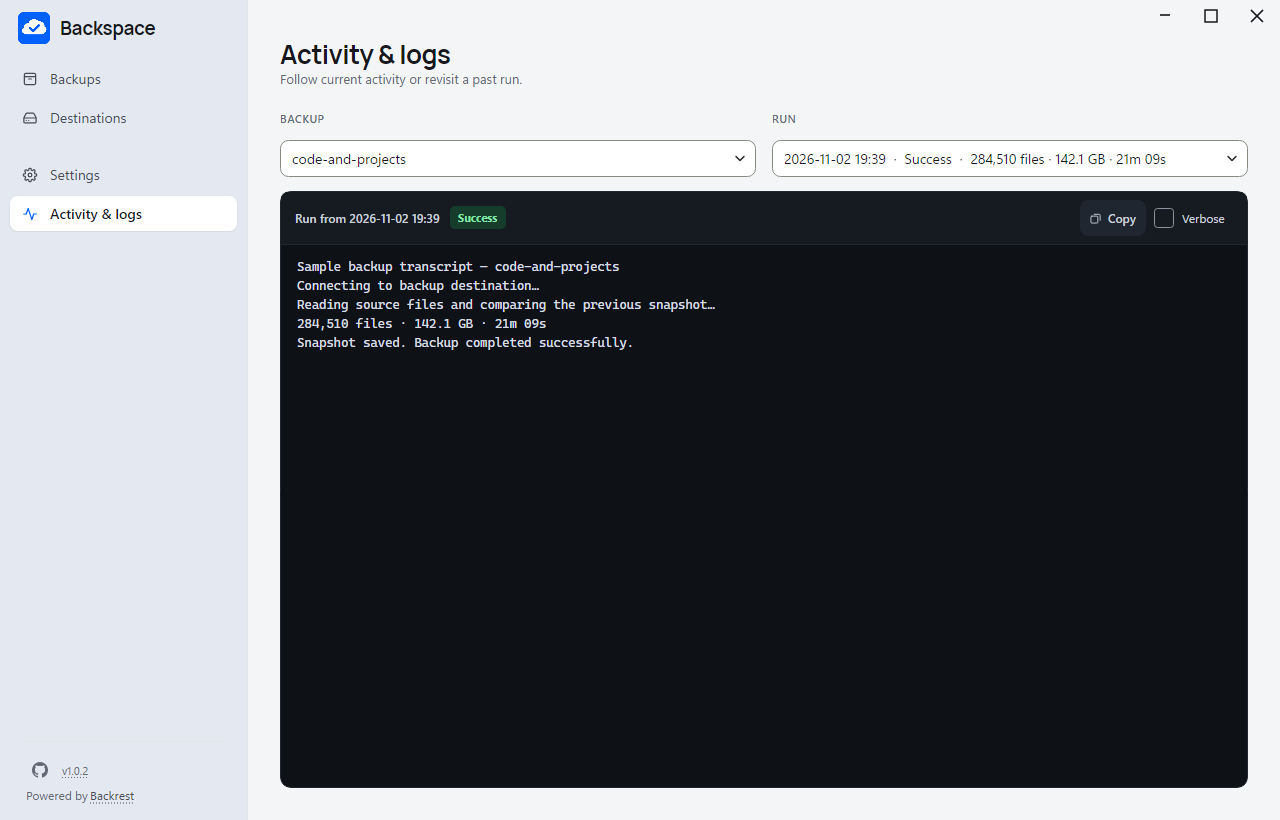
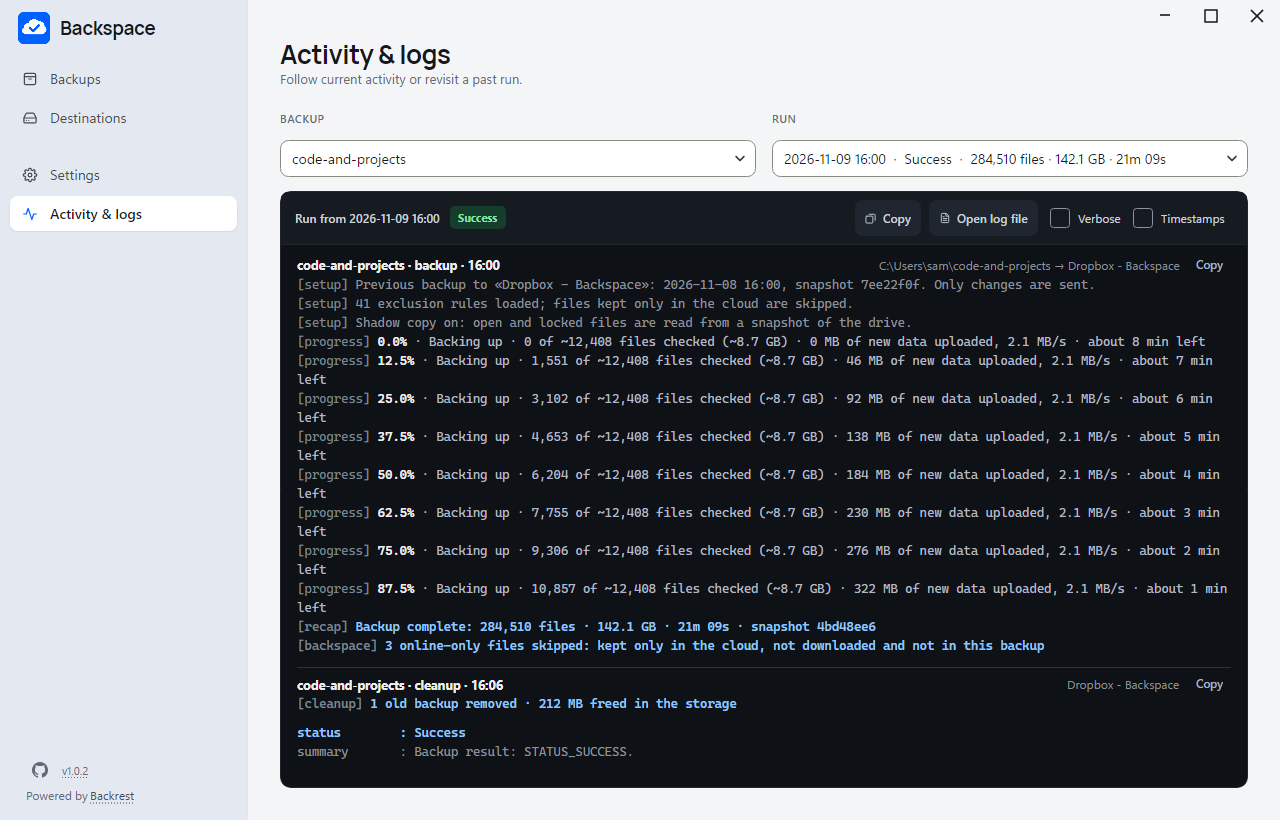
Log console, round 3: checked against real logs, drag past the edge, website shot (U176)
Ran the classifier over every saved run log in the owner's install (read
only) and fixed what it showed:
- An outcome summary over several lines, with a blank line inside, stays in
  its block (its "ended (UTC)" no longer turns plain).
- Backrest messages continued on untagged lines keep their warning/error
  colour up to a blank line.
- "«destination» isn't set up yet" is an error; a second attempt is an amber
  retry; the first attempt's UTC start line shows with Verbose only.
- Dragging a selection past the console's edge scrolls on; Escape clears.
- Website screenshot 06-logs regenerated from a realistic run log.

diff --git a/tests/Backspace.Tests/Screenshots/WebsiteScreenshotTests.cs b/tests/Backspace.Tests/Screenshots/WebsiteScreenshotTests.cs
@@ -423,14 +423,36 @@ public class WebsiteScreenshotTests : IDisposable
         {
             record.BackupId = ServiceLocator.Config.Current.Backups.Single(b => b.Name == record.BackupName).Id;
             record.LogPath = Path.Combine(transcriptDir, record.Id + ".log");
-            File.WriteAllText(record.LogPath,
-                $"Sample backup transcript — {record.BackupName}\n" +
-                "Connecting to backup destination…\n" +
-                "Reading source files and comparing the previous snapshot…\n" +
-                $"{record.Summary}\n" +
-                (record.Status == BackupRunStatus.Warning
-                    ? "Two files could not be read (access denied); the remaining files were saved.\n"
-                    : "Snapshot saved. Backup completed successfully.\n"));
+            // The format a real run log has (U176): header block, stamped
+            // engine lines with section markers, outcome block.
+            var t = record.StartedUtc;
+            var dest = "Dropbox - Backspace";
+            var sb = new System.Text.StringBuilder();
+            sb.AppendLine("--- Backspace cell log ---").AppendLine($"backup        : {record.BackupName}")
+              .AppendLine($"source        : C:\\Users\\sam\\{record.BackupName}").AppendLine($"destination   : {dest} (Dropbox)")
+              .AppendLine("storage-name  : default").AppendLine($"started (UTC) : {t:o}").AppendLine();
+            void L(int s, string line) => sb.AppendLine(global::Backspace.Services.LogLineStamp.Stamp(line, t.AddSeconds(s)));
+            L(0, global::Backspace.Services.LogSection.Line(record.BackupName, "backup", dest));
+            L(0, $"[orchestrator] attempt 1 starting at {t:o}");
+            L(1, $"[setup] Previous backup to «{dest}»: {t.AddDays(-1).ToLocalTime():yyyy-MM-dd HH:mm}, snapshot 7ee22f0f. Only changes are sent.");
+            L(1, "[setup] 41 exclusion rules loaded; files kept only in the cloud are skipped.");
+            L(1, "[setup] Shadow copy on: open and locked files are read from a snapshot of the drive.");
+            for (var i = 0; i < 8; i++)
+                L(5 + i * 40, System.FormattableString.Invariant(
+                    $"[progress] {i * 12.5:0.0}% · Backing up · {i * 1_551:N0} of ~12,408 files checked (~8.7 GB) · {i * 46} MB of new data uploaded, 2.1 MB/s · about {8 - i} min left"));
+            if (record.Status == BackupRunStatus.Warning)
+            {
+                L(330, "[backrest] op=12 status=STATUS_WARNING Partial backup, some files may not have been read completely.");
+                L(330, "[restic] {\"item\":\"C:\\\\Users\\\\sam\\\\Music\\\\iTunes Library.itl\",\"during\":\"archival\",\"message\":\"access denied\"}");
+            }
+            L(340, $"[recap] Backup complete: {record.Summary} · snapshot 4bd48ee6");
+            L(341, "[backspace] 3 online-only files skipped: kept only in the cloud, not downloaded and not in this backup");
+            L(350, global::Backspace.Services.LogSection.Line(record.BackupName, "cleanup", dest));
+            L(360, "[cleanup] 1 old backup removed · 212 MB freed in the storage");
+            sb.AppendLine().AppendLine("--- cell outcome ---").AppendLine($"status        : {record.Status}").AppendLine("attempts      : 1")
+              .AppendLine($"summary       : Backup result: STATUS_{record.Status.ToString().ToUpperInvariant()}.")
+              .AppendLine($"ended (UTC)   : {record.EndedUtc:o}");
+            File.WriteAllText(record.LogPath, sb.ToString());
             store.AppendRun(record);
         }
             AppendSample(new RunRecord
@@ -576,12 +598,12 @@ public class WebsiteScreenshotTests : IDisposable
             if (window.DataContext is MainWindowViewModel { SelectedNav: NavItem.Logs } main)
             {
                 var deadline = DateTime.UtcNow.AddSeconds(4);
-                while (!main.Logs.DisplayText.Contains("Sample backup transcript") && DateTime.UtcNow < deadline)
+                while (!main.Logs.DisplayText.Contains("[recap] Backup complete") && DateTime.UtcNow < deadline)
                 {
                     Avalonia.Threading.Dispatcher.UIThread.RunJobs();
                     System.Threading.Thread.Sleep(10);
                 }
-                Assert.Contains("Sample backup transcript", main.Logs.DisplayText);
+                Assert.Contains("[recap] Backup complete", main.Logs.DisplayText);
                 window.UpdateLayout();
             }
 

diff --git a/src/Backspace/Services/ConsoleLogParser.cs b/src/Backspace/Services/ConsoleLogParser.cs
@@ -63,15 +63,18 @@ internal sealed class ConsoleLogParser
         {
             _block = Block.Outcome;
             _outcomeStatus = "";
+            _lastFieldKind = ConsoleLineKind.Meta;
             return new ConsoleLine(text, ConsoleLineKind.Meta, time) { VerboseOnly = true };
         }
         if (_block != Block.None)
         {
             if (string.IsNullOrWhiteSpace(text))
             {
-                // The gap after a header whose fields are hidden is hidden with them.
+                // The gap after a header whose fields are hidden is hidden with
+                // them. The outcome block runs to the end: a summary can hold
+                // blank lines ("note: task was cancelled by user request").
                 var verboseOnly = _block == Block.Header;
-                _block = Block.None;
+                if (_block == Block.Header) _block = Block.None;
                 return new ConsoleLine("", ConsoleLineKind.Blank, time) { VerboseOnly = verboseOnly };
             }
             return BlockLine(text, time);
@@ -98,8 +101,22 @@ internal sealed class ConsoleLogParser
         }
         if (kind is not (ConsoleLineKind.Setup or ConsoleLineKind.Meta or ConsoleLineKind.Blank or ConsoleLineKind.Detail))
             _sectionHasContent = true;
-        return new ConsoleLine(text, kind, time);
+        // A message Backrest wrote over several lines ("failed to backup: …"
+        // then "output processing: no summary event found") keeps the colour
+        // of the line it continues, up to a blank line.
+        if (kind == ConsoleLineKind.Plain && !text.StartsWith('[') && _lastKind is ConsoleLineKind.Warning or ConsoleLineKind.Error)
+            kind = _lastKind;
+        _lastKind = kind;
+        // The first attempt's start (in UTC) adds nothing to the header above
+        // it; a second attempt is a retry and shows, amber.
+        return new ConsoleLine(text, kind, time) { VerboseOnly = text.StartsWith(FirstAttempt, StringComparison.Ordinal) };
     }
+
+    private const string FirstAttempt = "[orchestrator] attempt 1 starting at ";
+    private ConsoleLineKind _lastKind = ConsoleLineKind.Plain;
+    // The outcome field a line without a key continues ("summary : …" over
+    // several lines).
+    private ConsoleLineKind _lastFieldKind = ConsoleLineKind.Meta;
 
     private string? _source, _destination;
     // "USB drive (E:) (LocalFolder)": the destination's kind, in brackets at the end.
@@ -128,6 +145,8 @@ internal sealed class ConsoleLogParser
         }
         // Outcome block: the status and what it says take its colour.
         if (key == "status") _outcomeStatus = value;
+        if (key.Length == 0)
+            return new ConsoleLine(text, _lastFieldKind, time) { ListAsError = false };
         var kind = key switch
         {
             "status" or "summary" => _outcomeStatus switch
@@ -143,6 +162,7 @@ internal sealed class ConsoleLogParser
         if (key == "ended (UTC)" && DateTime.TryParse(value, System.Globalization.CultureInfo.InvariantCulture,
                 System.Globalization.DateTimeStyles.AdjustToUniversal | System.Globalization.DateTimeStyles.AssumeUniversal, out var ended))
             time ??= ended.ToLocalTime();
+        _lastFieldKind = kind;
         return new ConsoleLine(text, kind, time)
         {
             ListAsError = key is not ("status" or "summary"),

diff --git a/tests/Backspace.Tests/Services/ConsoleLogTests.cs b/tests/Backspace.Tests/Services/ConsoleLogTests.cs
@@ -257,6 +257,57 @@ public sealed class ConsoleLogTests
     }
 
     [Fact]
+    public void Retries_and_destinations_not_set_up_stand_out_and_the_first_attempt_is_quiet()
+    {
+        // From real logs (10 November 2026): a second attempt, and a destination missing its sign-in.
+        Assert.Equal(ConsoleLineKind.Warning, ConsoleLineClassifier.Classify("[orchestrator] attempt 2 starting at 2026-11-04T22:53:40.1234567Z"));
+        Assert.Equal(ConsoleLineKind.Error, ConsoleLineClassifier.Classify(
+            "[orchestrator] «Dropbox - sam_local_d» isn't set up yet: connect your Dropbox account and choose a storage password. Open it from Destinations to finish."));
+        var parser = new ConsoleLogParser();
+        var first = parser.Feed("[orchestrator] attempt 1 starting at 2026-11-10T06:00:00.5737522Z", null)!;
+        Assert.Equal(ConsoleLineKind.Setup, first.Kind);
+        Assert.True(first.IsDetail, "The first attempt's UTC start shows without Verbose.");
+        Assert.False(parser.Feed("[orchestrator] attempt 2 starting at 2026-11-10T06:01:00.0000000Z", null)!.IsDetail);
+    }
+
+    [Fact]
+    public void A_message_over_several_lines_keeps_its_colour_up_to_a_blank_line()
+    {
+        var lines = ConsoleLogParser.ParseText(string.Join("\n",
+            "[backrest] op=2 status=STATUS_USER_CANCELLED failed to backup: command failed",
+            "output processing: no summary event found",
+            "",
+            "Snapshot saved."));
+        Assert.Equal(ConsoleLineKind.Warning, lines[1].Kind);
+        Assert.Equal(ConsoleLineKind.Plain, lines[3].Kind);
+        // A tagged line after a warning is read on its own.
+        Assert.Equal(ConsoleLineKind.Plain, ConsoleLogParser.ParseText("[skip] x\n[backspace] Finishing snapshot history")[1].Kind);
+    }
+
+    [Fact]
+    public void An_outcome_summary_over_several_lines_stays_in_its_block()
+    {
+        // A cancelled run's real outcome: the summary continues on its own
+        // lines, with a blank line inside, before the end time.
+        var text = string.Join("\n",
+            "--- cell outcome ---",
+            "status        : Skipped",
+            "attempts      : 2",
+            "summary       : Backup result: STATUS_USER_CANCELLED. failed to backup: command failed",
+            "output processing: no summary event found",
+            "",
+            "note: task was cancelled by user request",
+            "ended (UTC)   : 2026-11-04T23:05:19.1800000Z");
+        var lines = ConsoleLogParser.ParseText(text);
+        Assert.Equal(ConsoleLineKind.Warning, lines.Single(l => l.Text.StartsWith("output processing")).Kind);
+        Assert.Equal(ConsoleLineKind.Warning, lines.Single(l => l.Text.StartsWith("note:")).Kind);
+        var ended = lines.Single(l => l.Text.StartsWith("ended (UTC)"));
+        Assert.Equal(ConsoleLineKind.Meta, ended.Kind);
+        Assert.True(ended.IsDetail);
+        Assert.False(lines.Single(l => l.Text.StartsWith("attempts")).IsDetail); // two attempts are worth seeing
+    }
+
+    [Fact]
     public void A_failed_outcome_block_is_red()
     {
         var lines = ConsoleLogParser.ParseText(CellLog(stamped: true, marker: true, status: "Failed", lastError: "repository does not exist"));

diff --git a/tests/Backspace.Tests/Scenarios/S96_LogConsole.cs b/tests/Backspace.Tests/Scenarios/S96_LogConsole.cs
@@ -304,6 +304,26 @@ public sealed class S96_LogConsole : ScenarioBase
             ctx.Snapshot(host, "lines selected",
                 "Three lines selected by dragging from the recap to 'Finishing snapshot history' (blue selection); Ctrl+C copied exactly those, with their times.");
             copied.Clear();
+            // Dragging past the bottom edge scrolls on and keeps selecting; Escape clears.
+            scroll.Offset = new Vector(0, 0);
+            await ctx.Driver.PumpAsync(100);
+            var shownRows = Rows().Count(r => r.TranslatePoint(new Point(), scroll)!.Value.Y is >= 0 and var top && top < scroll.Viewport.Height);
+            var start = Rows().First(r => r.Line!.Text.StartsWith("[setup] Previous"));
+            var startLine = start.Line!; // the row is recycled once it scrolls away
+            host.MouseDown(Center(host, start), MouseButton.Left);
+            var below = scroll.TranslatePoint(new Point(60, scroll.Viewport.Height + 60), host)!.Value;
+            for (var i = 0; i < 8; i++) { host.MouseMove(below); await ctx.Driver.PumpAsync(20); }
+            host.MouseUp(below, MouseButton.Left);
+            await ctx.Driver.PumpAsync(50);
+            Assert.True(scroll.Offset.Y > 0, "Dragging below the log did not scroll it.");
+            var selectedCount = vm.DisplayLines.Count(l => l.IsSelected);
+            Assert.True(selectedCount > shownRows, $"{selectedCount} lines selected; the drag should reach past the {shownRows} first shown.");
+            Assert.True(startLine.IsSelected);
+            ctx.Snapshot(host, "drag past the edge",
+                "Dragging from '[setup] Previous backup…' to below the console scrolled it on: every line from there to the bottom of the view is selected.");
+            scroll.RaiseEvent(new KeyEventArgs { RoutedEvent = InputElement.KeyDownEvent, Key = Key.Escape });
+            Assert.DoesNotContain(vm.DisplayLines, l => l.IsSelected);
+
 
             // ---- Open log file ----
             var openFile = view.FindControl<Button>("OpenLogFile")!;

diff --git a/src/Backspace/Views/LogsView.axaml.cs b/src/Backspace/Views/LogsView.axaml.cs
@@ -253,7 +253,31 @@ public partial class LogsView : UserControl
     private void OnLinesPointerMoved(object? sender, PointerEventArgs e)
     {
         if (!_dragging || _anchor is null) return;
+        // Dragging past the top or bottom edge scrolls on, selecting as it goes.
+        var y = e.GetPosition(LogScroll).Y;
+        if (y < 0 || y > LogScroll.Viewport.Height)
+        {
+            var step = Math.Clamp(y < 0 ? y : y - LogScroll.Viewport.Height, -120, 120);
+            LogScroll.Offset = new Vector(LogScroll.Offset.X, Math.Max(0, LogScroll.Offset.Y + step));
+            LogScroll.UpdateLayout();
+            var edge = VisibleRows();
+            if ((y < 0 ? edge.FirstOrDefault() : edge.LastOrDefault()) is { Line: { } atEdge }) SelectRange(_anchor, atEdge);
+            return;
+        }
         if (LineAt(e) is { } line) SelectRange(_anchor, line);
+    }
+
+    /// <summary>The rows inside the viewport, top to bottom.</summary>
+    private List<ConsoleLineRow> VisibleRows()
+    {
+        var rows = new List<(double Top, ConsoleLineRow Row)>();
+        foreach (var row in LogLines.GetVisualDescendants().OfType<ConsoleLineRow>())
+        {
+            if (row.Line is null || !row.IsVisible) continue;
+            var top = row.TranslatePoint(new Point(0, 0), LogScroll)?.Y ?? double.NaN;
+            if (top + row.Bounds.Height > 0 && top < LogScroll.Viewport.Height) rows.Add((top, row));
+        }
+        return rows.OrderBy(r => r.Top).Select(r => r.Row).ToList();
     }
 
     private void OnLinesPointerReleased(object? sender, PointerReleasedEventArgs e)

diff --git a/src/Backspace/Services/ConsoleLineClassifier.cs b/src/Backspace/Services/ConsoleLineClassifier.cs
@@ -38,6 +38,8 @@ internal static class ConsoleLineClassifier
     private static readonly Regex Retry = new(
         @"^\[orchestrator\] (retry \d|transient retry|tolerable skip|cancelled)\b",
         RegexOptions.Compiled | RegexOptions.CultureInvariant);
+    private static readonly Regex NotReady = new(
+        @"^\[orchestrator\] «[^»]+» (isn't|is not) set up\b", RegexOptions.Compiled | RegexOptions.CultureInvariant);
     private static readonly Regex RestoreDone = new(
         @"^\[restore\] done: status=(?<status>\w+)", RegexOptions.Compiled | RegexOptions.CultureInvariant);
     private static readonly Regex GenericError = new(
@@ -82,7 +84,9 @@ internal static class ConsoleLineClassifier
                 : Trouble.IsMatch(text) ? ConsoleLineKind.Warning : ConsoleLineKind.Plain;
         if (text.StartsWith("[orchestrator] ", StringComparison.Ordinal))
             return text.StartsWith("[orchestrator] attempt ", StringComparison.Ordinal) && text.Contains(" starting at ", StringComparison.Ordinal)
-                ? ConsoleLineKind.Setup
+                ? (text.StartsWith("[orchestrator] attempt 1 ", StringComparison.Ordinal) ? ConsoleLineKind.Setup : ConsoleLineKind.Warning)
+                // A destination without its sign-in or password: the cell fails.
+                : NotReady.IsMatch(text) ? ConsoleLineKind.Error
                 : Failure.IsMatch(text) ? ConsoleLineKind.Error
                 : Retry.IsMatch(text) || Trouble.IsMatch(text) ? ConsoleLineKind.Warning
                 : ConsoleLineKind.Plain;
